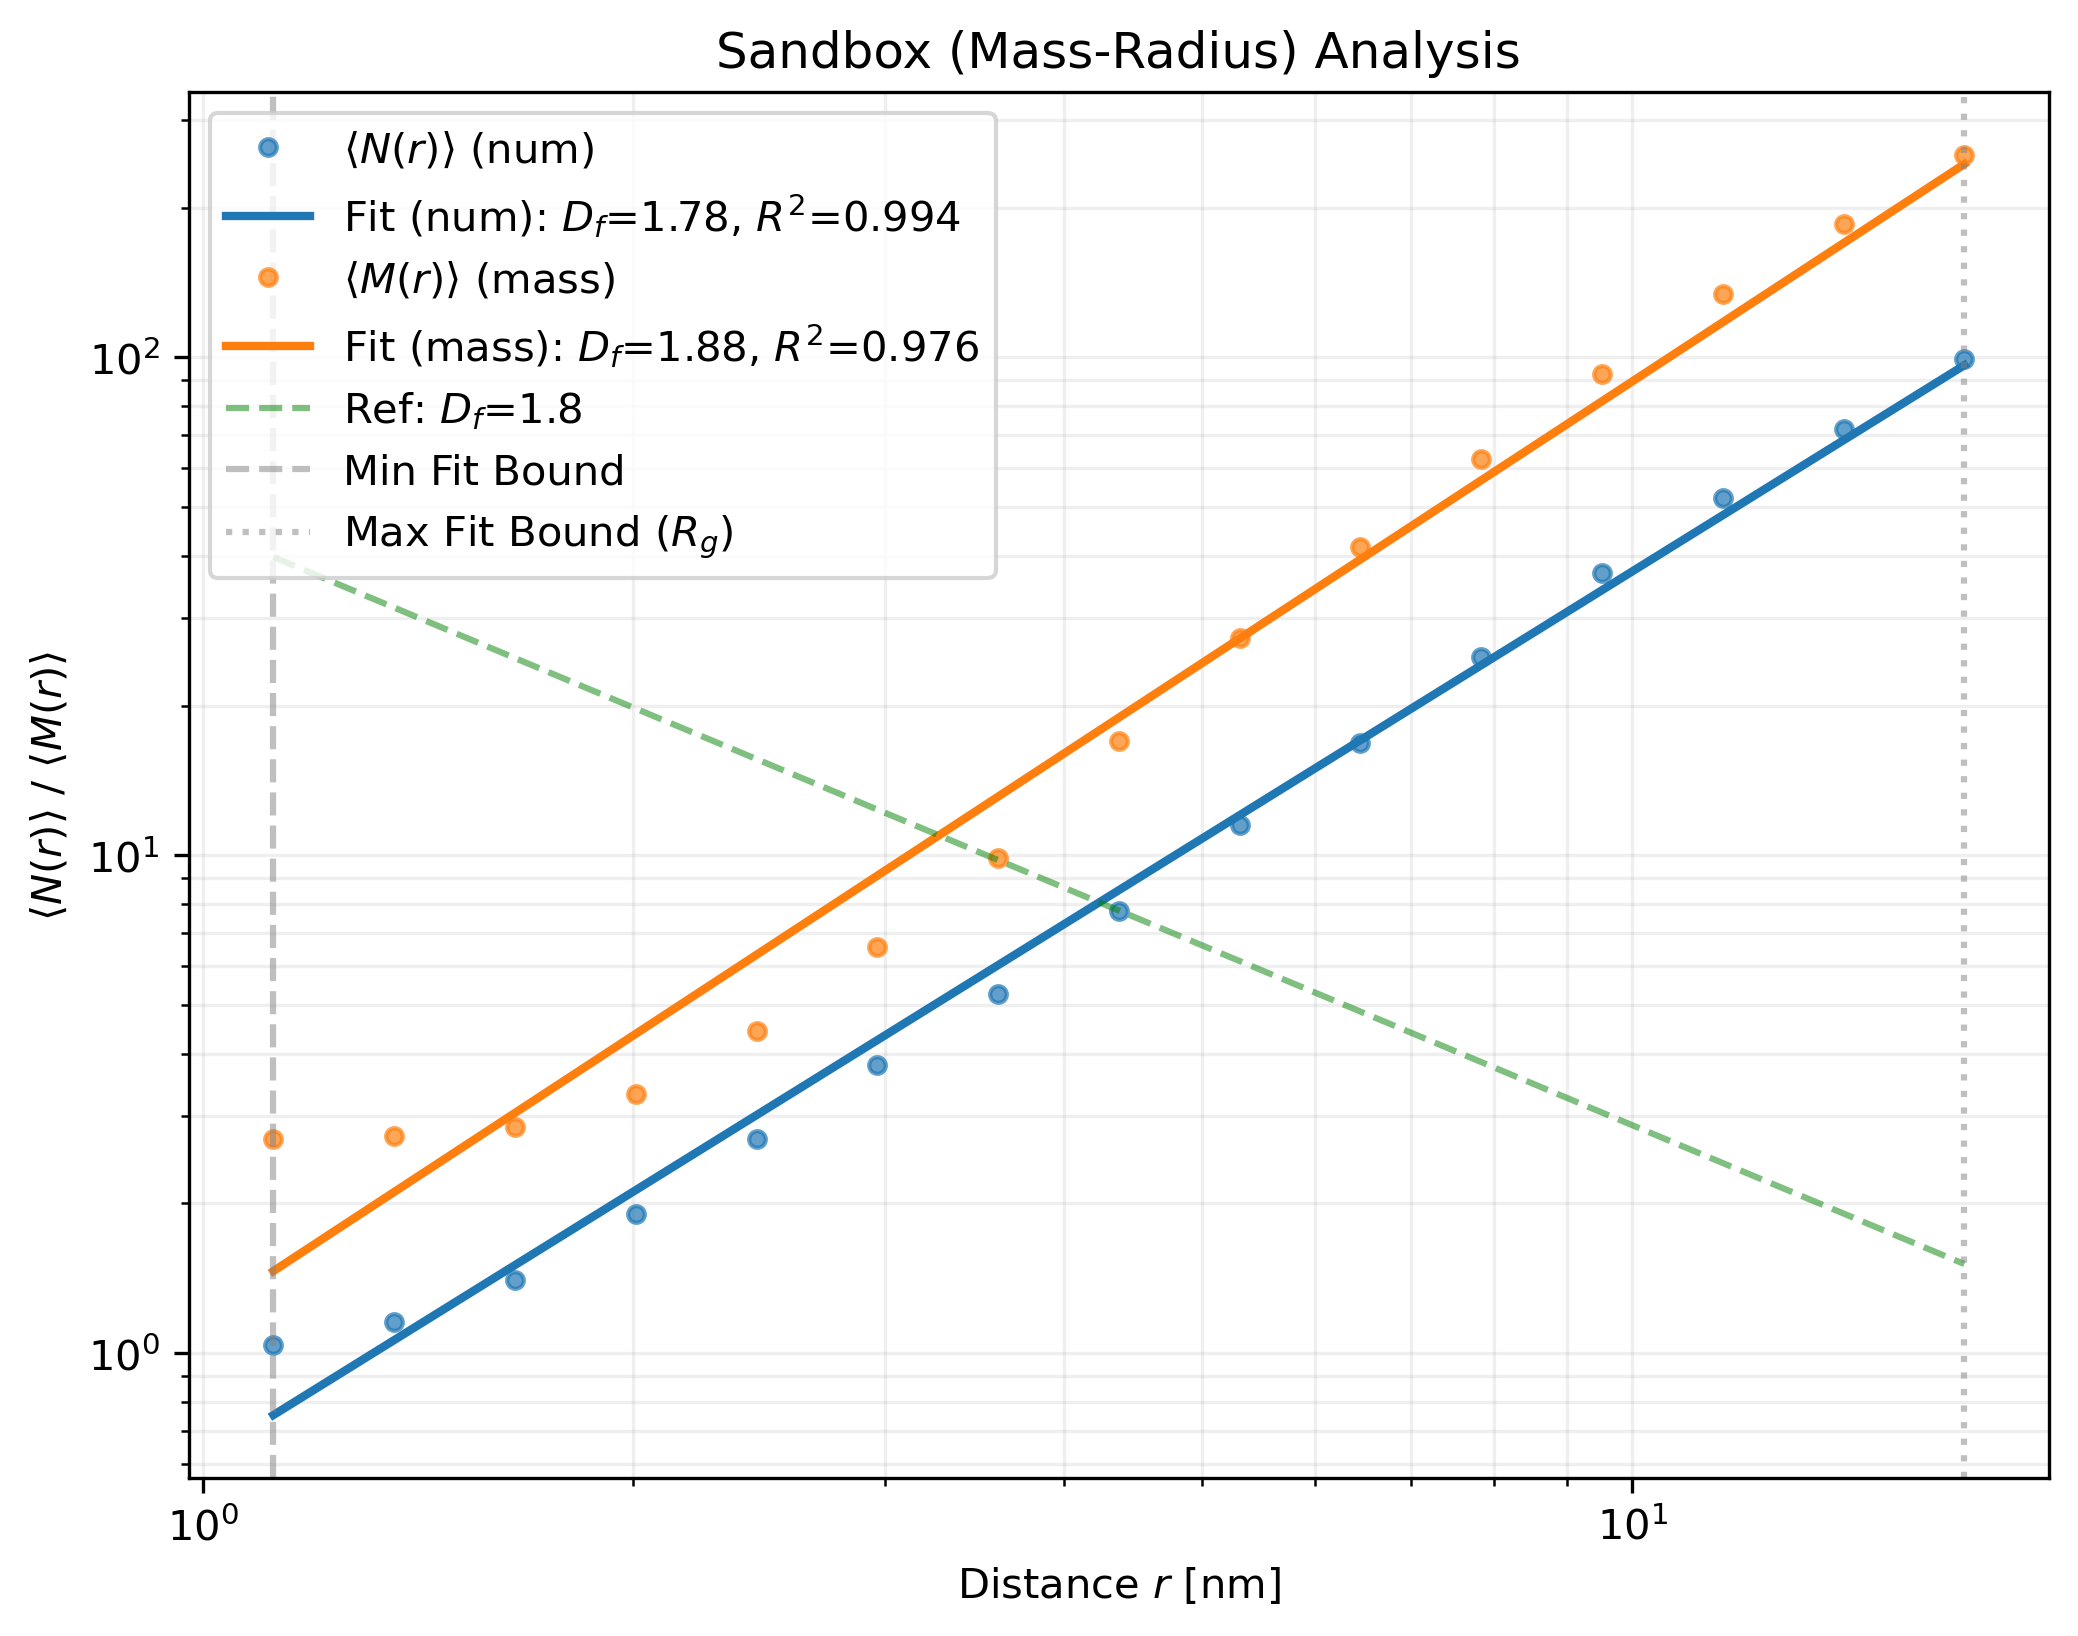
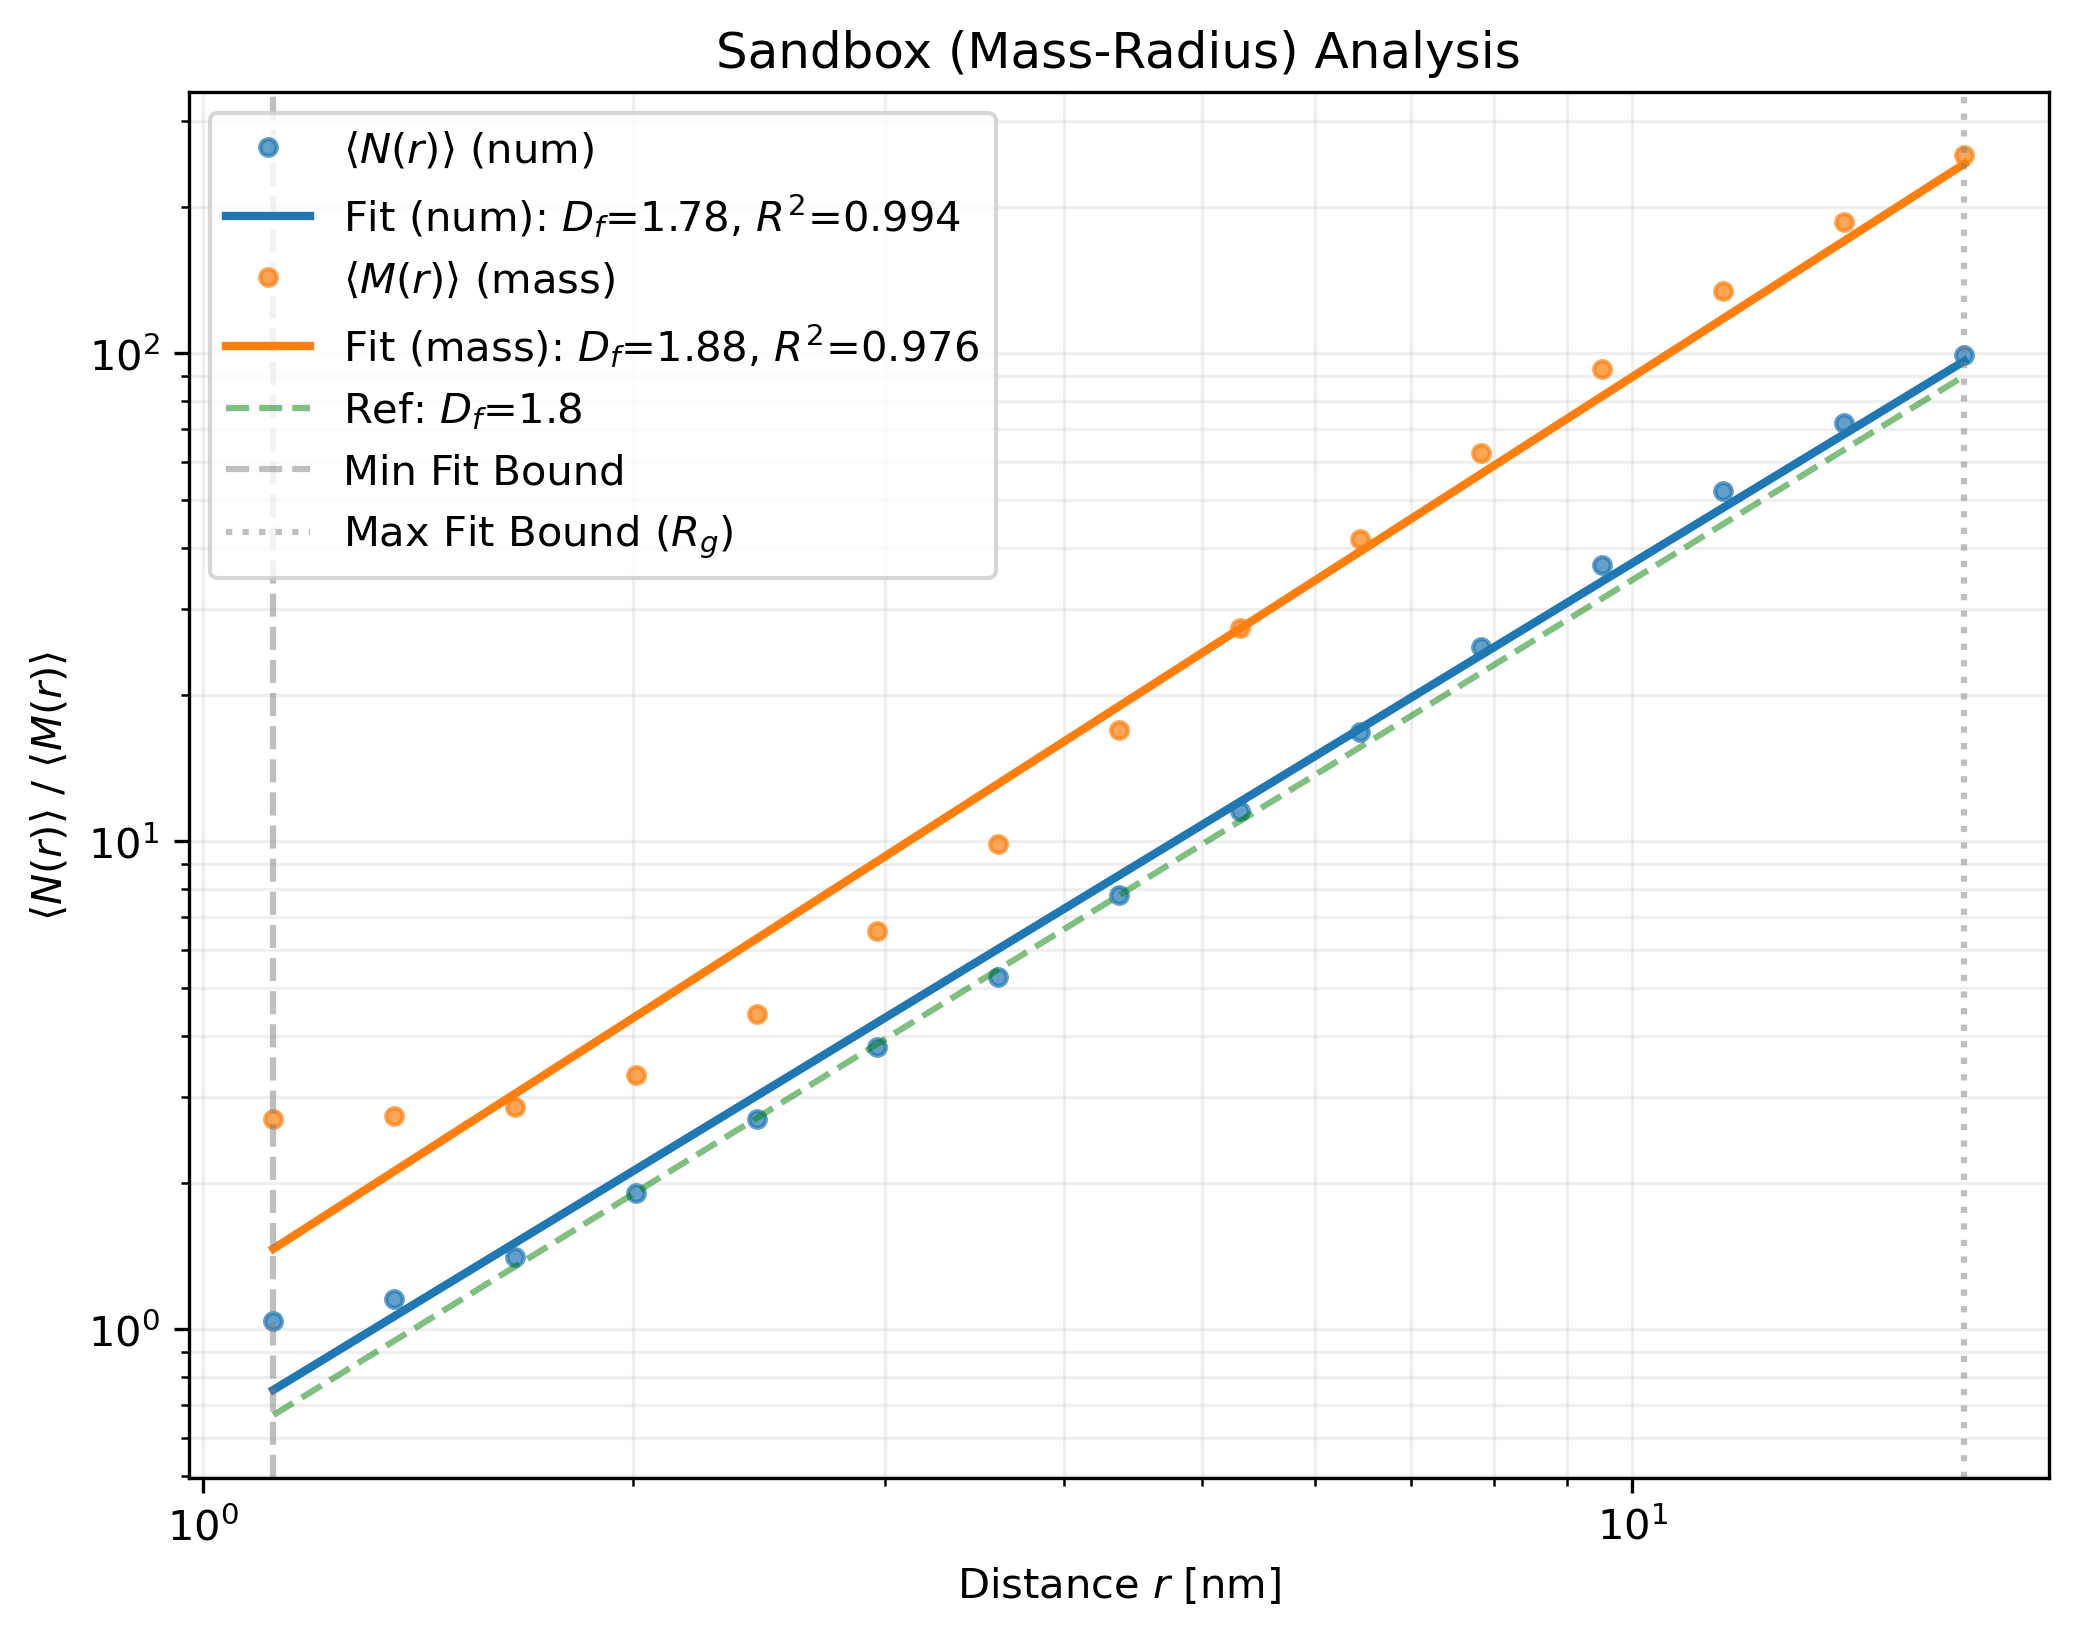
fix: sandbox reference-line slope convention, validation order, CLAUDE.md v0.6 sync

diff --git a/tests/test_analysis/test_correlation.py b/tests/test_analysis/test_correlation.py
@@ -95,3 +95,19 @@ def test_plot_pair_correlation_rejects_unknown_measure():
     agg = pfa.generate(20, 1.8, 1.9, method="pca", seed=1)
     with pytest.raises(ValueError, match="measure"):
         pfa.plot_pair_correlation(agg, measure="nmu")
+
+
+def test_plot_pair_correlation_reference_slope_is_df_minus_3(tmp_path, monkeypatch):
+    pytest.importorskip("matplotlib")
+    monkeypatch.setenv("MPLBACKEND", "Agg")
+    import matplotlib.pyplot as plt
+    agg = pfa.generate(80, 1.8, 1.9, method="pca", seed=5)
+    pfa.plot_pair_correlation(agg, show_fit=True, reference_df=1.8,
+                              measure="num", save_path=str(tmp_path / "p.png"))
+    ax = plt.gca()
+    ref = [ln for ln in ax.lines if ln.get_label().startswith("Ref")]
+    assert len(ref) == 1
+    x, y = ref[0].get_xdata(), ref[0].get_ydata()
+    slope = np.polyfit(np.log10(x), np.log10(y), 1)[0]
+    assert slope == pytest.approx(1.8 - 3.0, abs=1e-6)   # differenced: Df - 3
+    plt.close("all")

diff --git a/tests/test_analysis/test_sandbox.py b/tests/test_analysis/test_sandbox.py
@@ -124,3 +124,18 @@ def test_plot_sandbox_too_few_particles(tmp_path, capsys):
 def test_plot_sandbox_rejects_unknown_measure(agg_mono):
     with pytest.raises(ValueError, match="measure"):
         plot_sandbox(agg_mono, measure="nmu")
+
+
+def test_plot_sandbox_reference_slope_is_df_itself(agg_poly, tmp_path, monkeypatch):
+    pytest.importorskip("matplotlib")
+    monkeypatch.setenv("MPLBACKEND", "Agg")
+    import matplotlib.pyplot as plt
+    plot_sandbox(agg_poly, show_fit=True, reference_df=1.8, measure="both",
+                 save_path=str(tmp_path / "s.png"))
+    ax = plt.gca()
+    ref = [ln for ln in ax.lines if ln.get_label().startswith("Ref")]
+    assert len(ref) == 1
+    x, y = ref[0].get_xdata(), ref[0].get_ydata()
+    slope = np.polyfit(np.log10(x), np.log10(y), 1)[0]
+    assert slope == pytest.approx(1.8, abs=1e-6)   # cumulative: no -3
+    plt.close("all")

diff --git a/src/pyFracAggregate/analysis/correlation.py b/src/pyFracAggregate/analysis/correlation.py
@@ -219,6 +219,11 @@ def plot_pair_correlation(
             mass_pair_correlation_function.
         save_path (str, optional): Path to save the figure.
     """
+    if measure not in ("num", "mass", "both"):
+        raise ValueError(
+            f"measure must be 'num', 'mass', or 'both', got {measure!r}"
+        )
+
     try:
         import matplotlib.pyplot as plt
     except ImportError:
@@ -226,11 +231,6 @@ def plot_pair_correlation(
         return
 
     from pyFracAggregate.analysis.morphology import radius_of_gyration
-
-    if measure not in ("num", "mass", "both"):
-        raise ValueError(
-            f"measure must be 'num', 'mass', or 'both', got {measure!r}"
-        )
 
     curves: dict[str, tuple[np.ndarray, np.ndarray]] = {}
     if measure in ("num", "both"):

diff --git a/src/pyFracAggregate/analysis/sandbox.py b/src/pyFracAggregate/analysis/sandbox.py
@@ -215,8 +215,10 @@ def plot_sandbox(
     if reference_df is not None:
         r_ref, c_ref = next(iter(curves.values()))
         mid = len(r_ref) // 2
-        intercept = np.log10(c_ref[mid]) - (reference_df - 3.0) * np.log10(r_ref[mid])
-        plt.loglog(r_ref, 10 ** ((reference_df - 3.0) * np.log10(r_ref) + intercept),
+        # cumulative curve: the reference slope is Df itself (no -3; that is
+        # the differenced-PCF convention used in plot_pair_correlation)
+        intercept = np.log10(c_ref[mid]) - reference_df * np.log10(r_ref[mid])
+        plt.loglog(r_ref, 10 ** (reference_df * np.log10(r_ref) + intercept),
                    "g--", alpha=0.5, label=f"Ref: $D_f$={reference_df}")
 
     plt.axvline(float(np.mean(aggregate.radii)), color="gray", linestyle="--",

diff --git a/CLAUDE.md b/CLAUDE.md
@@ -45,7 +45,8 @@ No CLI entry point exists — the package is a library used via `import pyFracAg
 
 ### Analysis (`src/pyFracAggregate/analysis/`)
 - `morphology`: `radius_of_gyration()`, `center_of_mass()`
-- `correlation`: `pair_correlation_function()`, `estimate_fractal_dimension()`, `plot_pair_correlation()`
+- `correlation`: `pair_correlation_function()` and its mass-weighted mirror `mass_pair_correlation_function()` (ordered-pair normalization parity), `estimate_fractal_dimension()` (log-log fit; returns slope+3 per the PCF convention), `plot_pair_correlation()` (measure="num"|"mass"|"both")
+- `sandbox`: `number_radius_function()` / `mass_radius_function()` (cumulative `<N(r)>`/`<M(r)>` on a log grid), one-shot `number_sandbox_dimension()` / `mass_sandbox_dimension()` (Df is the raw slope; the PCF +3 is explicitly undone), `plot_sandbox()` (measure="both" comparison figure)
 
 ### IO (`src/pyFracAggregate/io/`)
 - **data.py**: `export_yaml()` — full aggregate snapshot (data, generation params, analysis results)
@@ -53,7 +54,7 @@ No CLI entry point exists — the package is a library used via `import pyFracAg
 - **vtk.py**: `export_vtm()` (MultiBlock) and `export_vtk()` (point cloud) via pyvista
 
 ### Top-level API (`__init__.py`)
-`pfa.generate(n_particles, df, kf, method='pca', scaling='mass', placement='solved', particle_dist=None, overlap_tolerance=1e-5, seed=None)` and `pfa.analyze(aggregate)` (returns the `MorphologyReport` dataclass) are the primary entry points. `generate()` delegates to the factory after matrix validation. Generation is reproducible via `seed=` (private `np.random.Generator`; the global NumPy RNG is never consulted). IO exports include `export_yaml()` (full snapshot; accepts a `MorphologyReport` and serializes legacy key names), `export_vtk()` (point cloud), `export_vtm()` (MultiBlock), and `save_screenshot()`/`save_rotation_video()` (off-screen PNG render / MP4 rotation video; `color_by="radius"` colors by monomer size).
+`pfa.generate(n_particles, df, kf, method='pca', scaling='mass', placement='solved', particle_dist=None, overlap_tolerance=1e-5, seed=None)` and `pfa.analyze(aggregate, estimator='sandbox'|'pcf')` (sandbox default; returns the 12-field `MorphologyReport` — per-measure df/r2/curves plus `estimator` provenance) are the primary entry points. `generate()` delegates to the factory after matrix validation. Generation is reproducible via `seed=` (private `np.random.Generator`; the global NumPy RNG is never consulted). IO exports include `export_yaml()` (full snapshot; accepts a `MorphologyReport` and serializes the v0.6 key names Rg/CoM/N/estimator/Df_num_estimated/... — old keys removed, no aliases), `export_vtk()` (point cloud), `export_vtm()` (MultiBlock), and `save_screenshot()`/`save_rotation_video()` (off-screen PNG render / MP4 rotation video; `color_by="radius"` colors by monomer size).
 
 ## Key Conventions
 - Python 3.13+, type hints throughout; `ruff check src/` and `mypy src/` clean

diff --git a/docs/user-guide/analysis.md b/docs/user-guide/analysis.md
@@ -103,7 +103,7 @@ the measure-comparison figure.
 r, c_m = pfa.mass_pair_correlation_function(agg, bins=50)
 ```
 
-Pairs are weighted by {math}`m_i m_j` (volume cubed; constant density makes
+Pairs are weighted by {math}`m_i m_j` (particle volumes; constant density makes
 mass- and volume-weighting identical). Noisy on single realizations —
 intended for ensemble-averaged curves.
 
